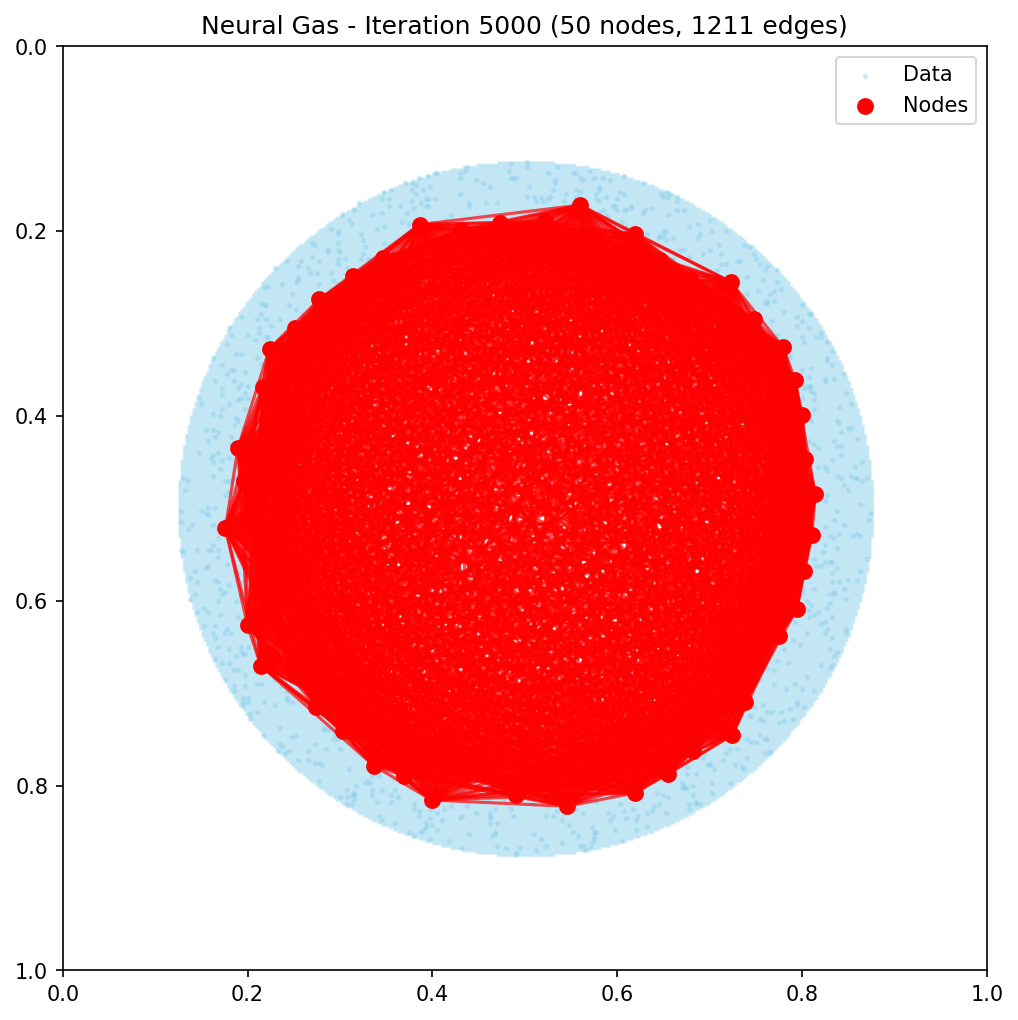
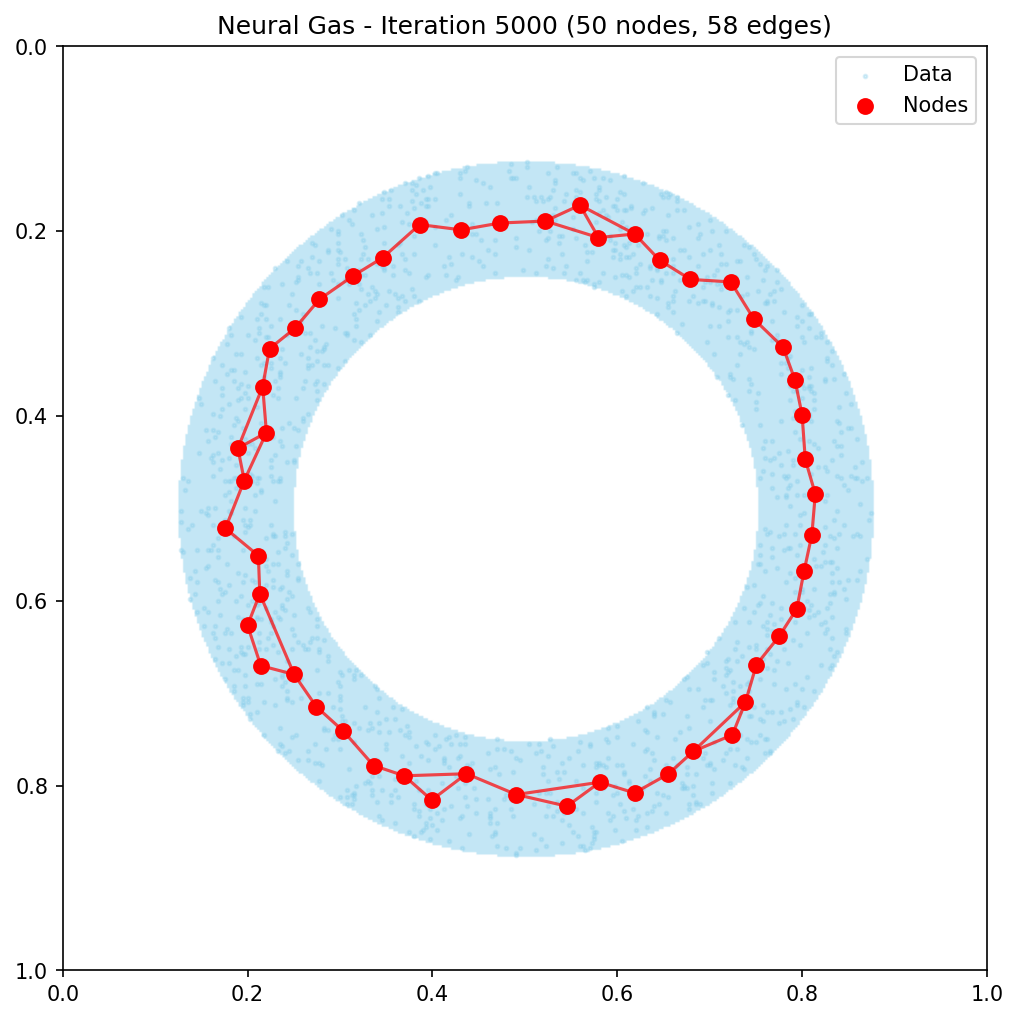
Fix Neural Gas CHL edge aging bug
Fixed bug where edge aging was incrementing all matrix cells instead of
only existing edges. Now correctly ages only edges that already exist
before creating/resetting the winner-second winner edge.

Changed region(s): [[0.2132, 0.1824, 0.8222, 0.7902], [0.1827, 0.0, 0.7613, 0.0304], [0.7917, 0.0, 0.8222, 0.0304]]

diff --git a/algorithms/neural_gas/python/model.py b/algorithms/neural_gas/python/model.py
@@ -143,9 +143,10 @@ class NeuralGas:
             sorted_idx = np.argsort(distances)
             s1, s2 = sorted_idx[0], sorted_idx[1]
 
-            # Age all edges from winner
-            self.edges[s1, :] += 1
-            self.edges[:, s1] += 1
+            # Age existing edges from winner (only where edges exist)
+            existing_s1 = self.edges[s1, :] > 0
+            self.edges[s1, existing_s1] += 1
+            self.edges[existing_s1, s1] += 1
 
             # Create/reset edge between s1 and s2
             self.edges[s1, s2] = 1
@@ -220,8 +221,11 @@ class NeuralGas:
             sorted_idx = np.argsort(distances)
             s1, s2 = sorted_idx[0], sorted_idx[1]
 
-            self.edges[s1, :] += 1
-            self.edges[:, s1] += 1
+            # Age existing edges from winner
+            existing_s1 = self.edges[s1, :] > 0
+            self.edges[s1, existing_s1] += 1
+            self.edges[existing_s1, s1] += 1
+
             self.edges[s1, s2] = 1
             self.edges[s2, s1] = 1
 
